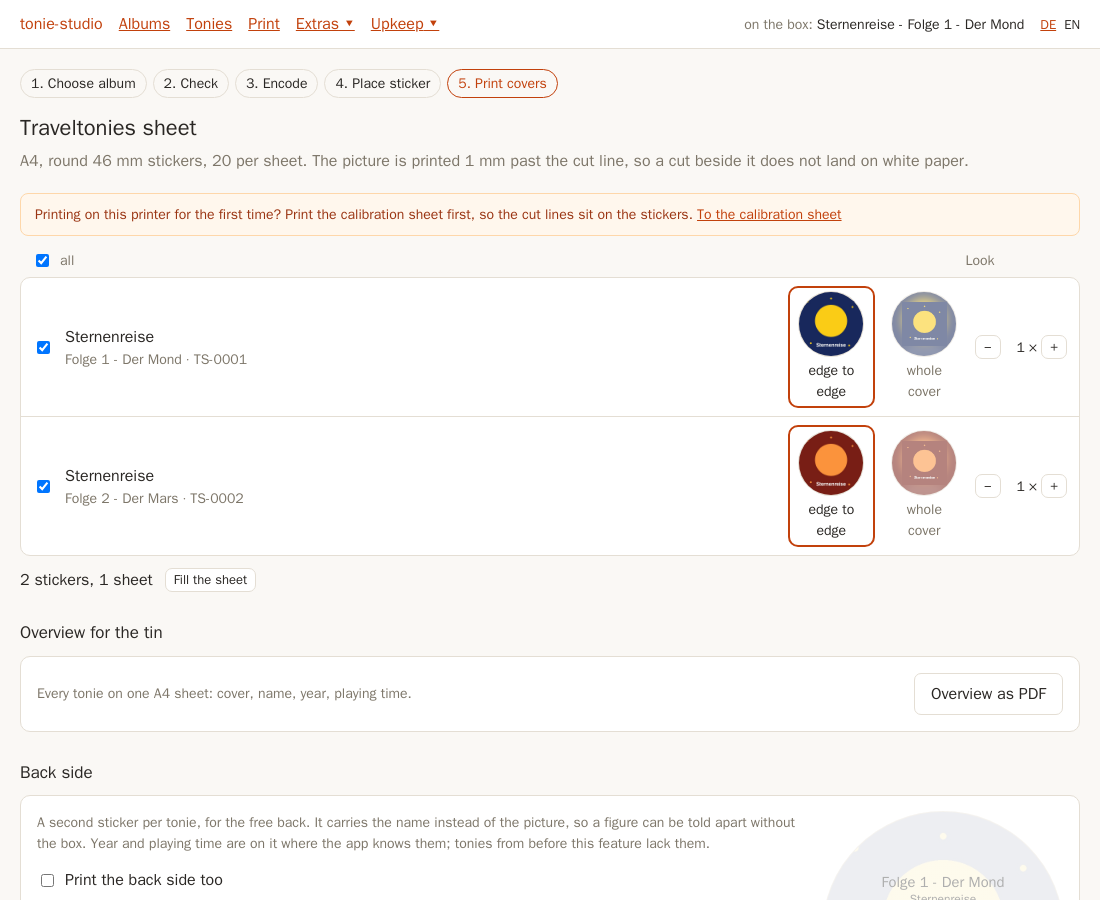
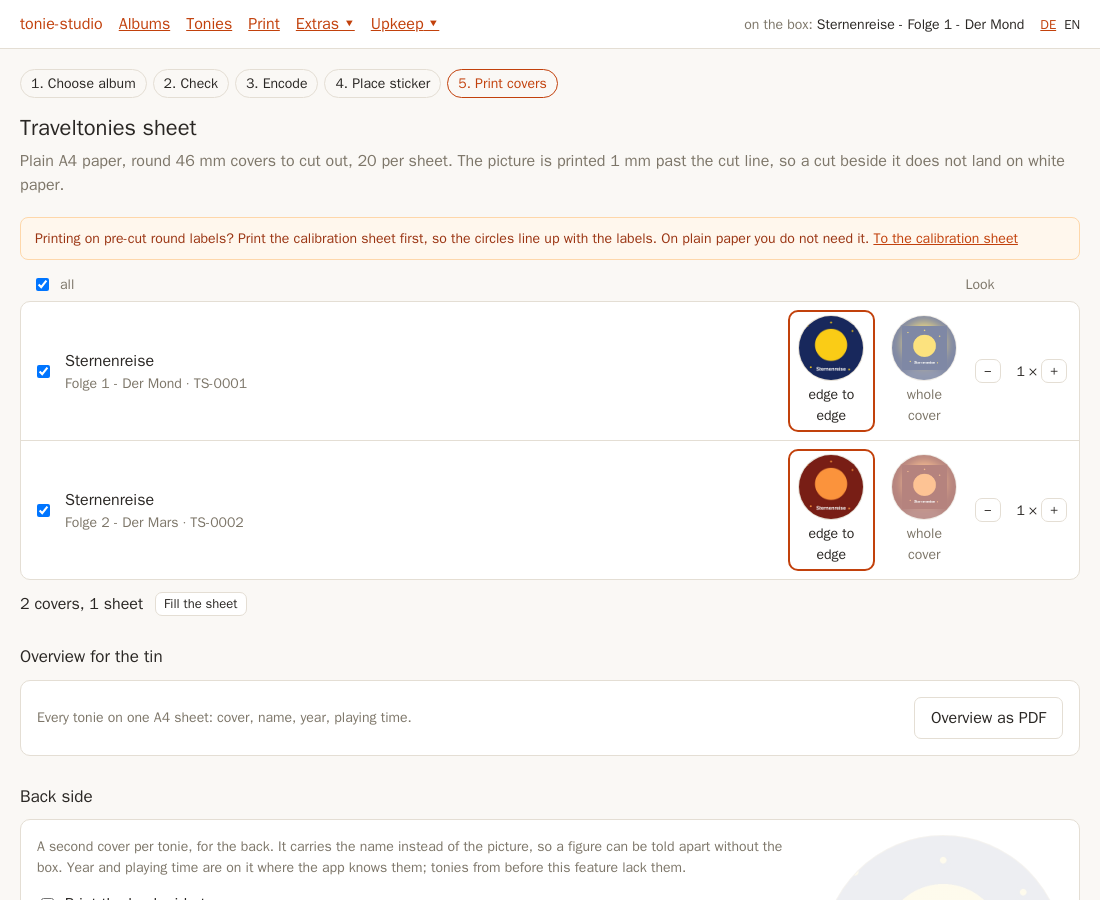
tonie-studio - print page speaks of covers to cut out, not stickers

diff --git a/tests/test_pages_batch.py b/tests/test_pages_batch.py
@@ -485,12 +485,13 @@ class TestWalkthroughHints:
 
         assert 'value="auto" checked' in page and 'value="place" checked' not in page
 
-    def test_printing_for_the_first_time_points_at_the_calibration(self, client, runner, teddycloud):
+    def test_until_calibrated_the_print_page_points_at_the_calibration(self, client, runner,
+                                                                       teddycloud):
         publish_album(client, runner, teddycloud)
 
-        assert "zum ersten Mal" in client.get("/sheet").text
+        assert "vorgestanzte" in client.get("/sheet").text
         client.post("/sheet/calibration", data={"left_mm": "31.5", "top_mm": "50.5"})
-        assert "zum ersten Mal" not in client.get("/sheet").text
+        assert "vorgestanzte" not in client.get("/sheet").text
 
 
 class TestRecognisingTonies:

diff --git a/tests/test_pages_printing.py b/tests/test_pages_printing.py
@@ -367,3 +367,21 @@ class TestNoPdfIsLeftBehind:
         clear_old_pdfs(settings.data_dir)
 
         assert not old.exists() and new.exists()
+
+
+class TestPrintedCoversAreNotStickers:
+    """What comes out of the printer is a cover to cut out; a sticker is the NFC tag."""
+
+    def test_no_page_calls_the_printed_circle_an_aufkleber(self, client, runner, teddycloud):
+        publish_album(client, runner, teddycloud)
+
+        for path in ("/sheet", "/tonies", "/checkup"):
+            assert "Aufkleber" not in client.get(path).text, path
+
+    def test_the_print_page_says_plain_paper_and_cutting_out(self, client):
+        client.cookies.set("lang", "en")
+
+        page = client.get("/sheet").text
+
+        assert "46 mm covers to cut out" in page
+        assert "46 mm stickers" not in page

diff --git a/README.md b/README.md
@@ -31,7 +31,8 @@ check the tracks, encode, lay the tag on the box, print the covers.
   the slots of a coin collector tin. The picture fills the circle or sits whole inside it, and it
   is printed a little past the cut line, so a slightly crooked cut shows no white edge. Optionally
   a back side with name, year, playing time and model number, an overview sheet of every tonie to
-  keep with the tin, and a calibration sheet that lines your printer up with the cut lines.
+  keep with the tin, and, for pre-cut round labels, a calibration sheet that lines your printer
+  up with them.
 - **Radio and podcasts.** Point a tag at a radio stream, or at a podcast whose newest episodes are
   fetched and encoded on their own.
 - **Upkeep.** What is on the box right now, a listening log, the TAF library with the tags that
